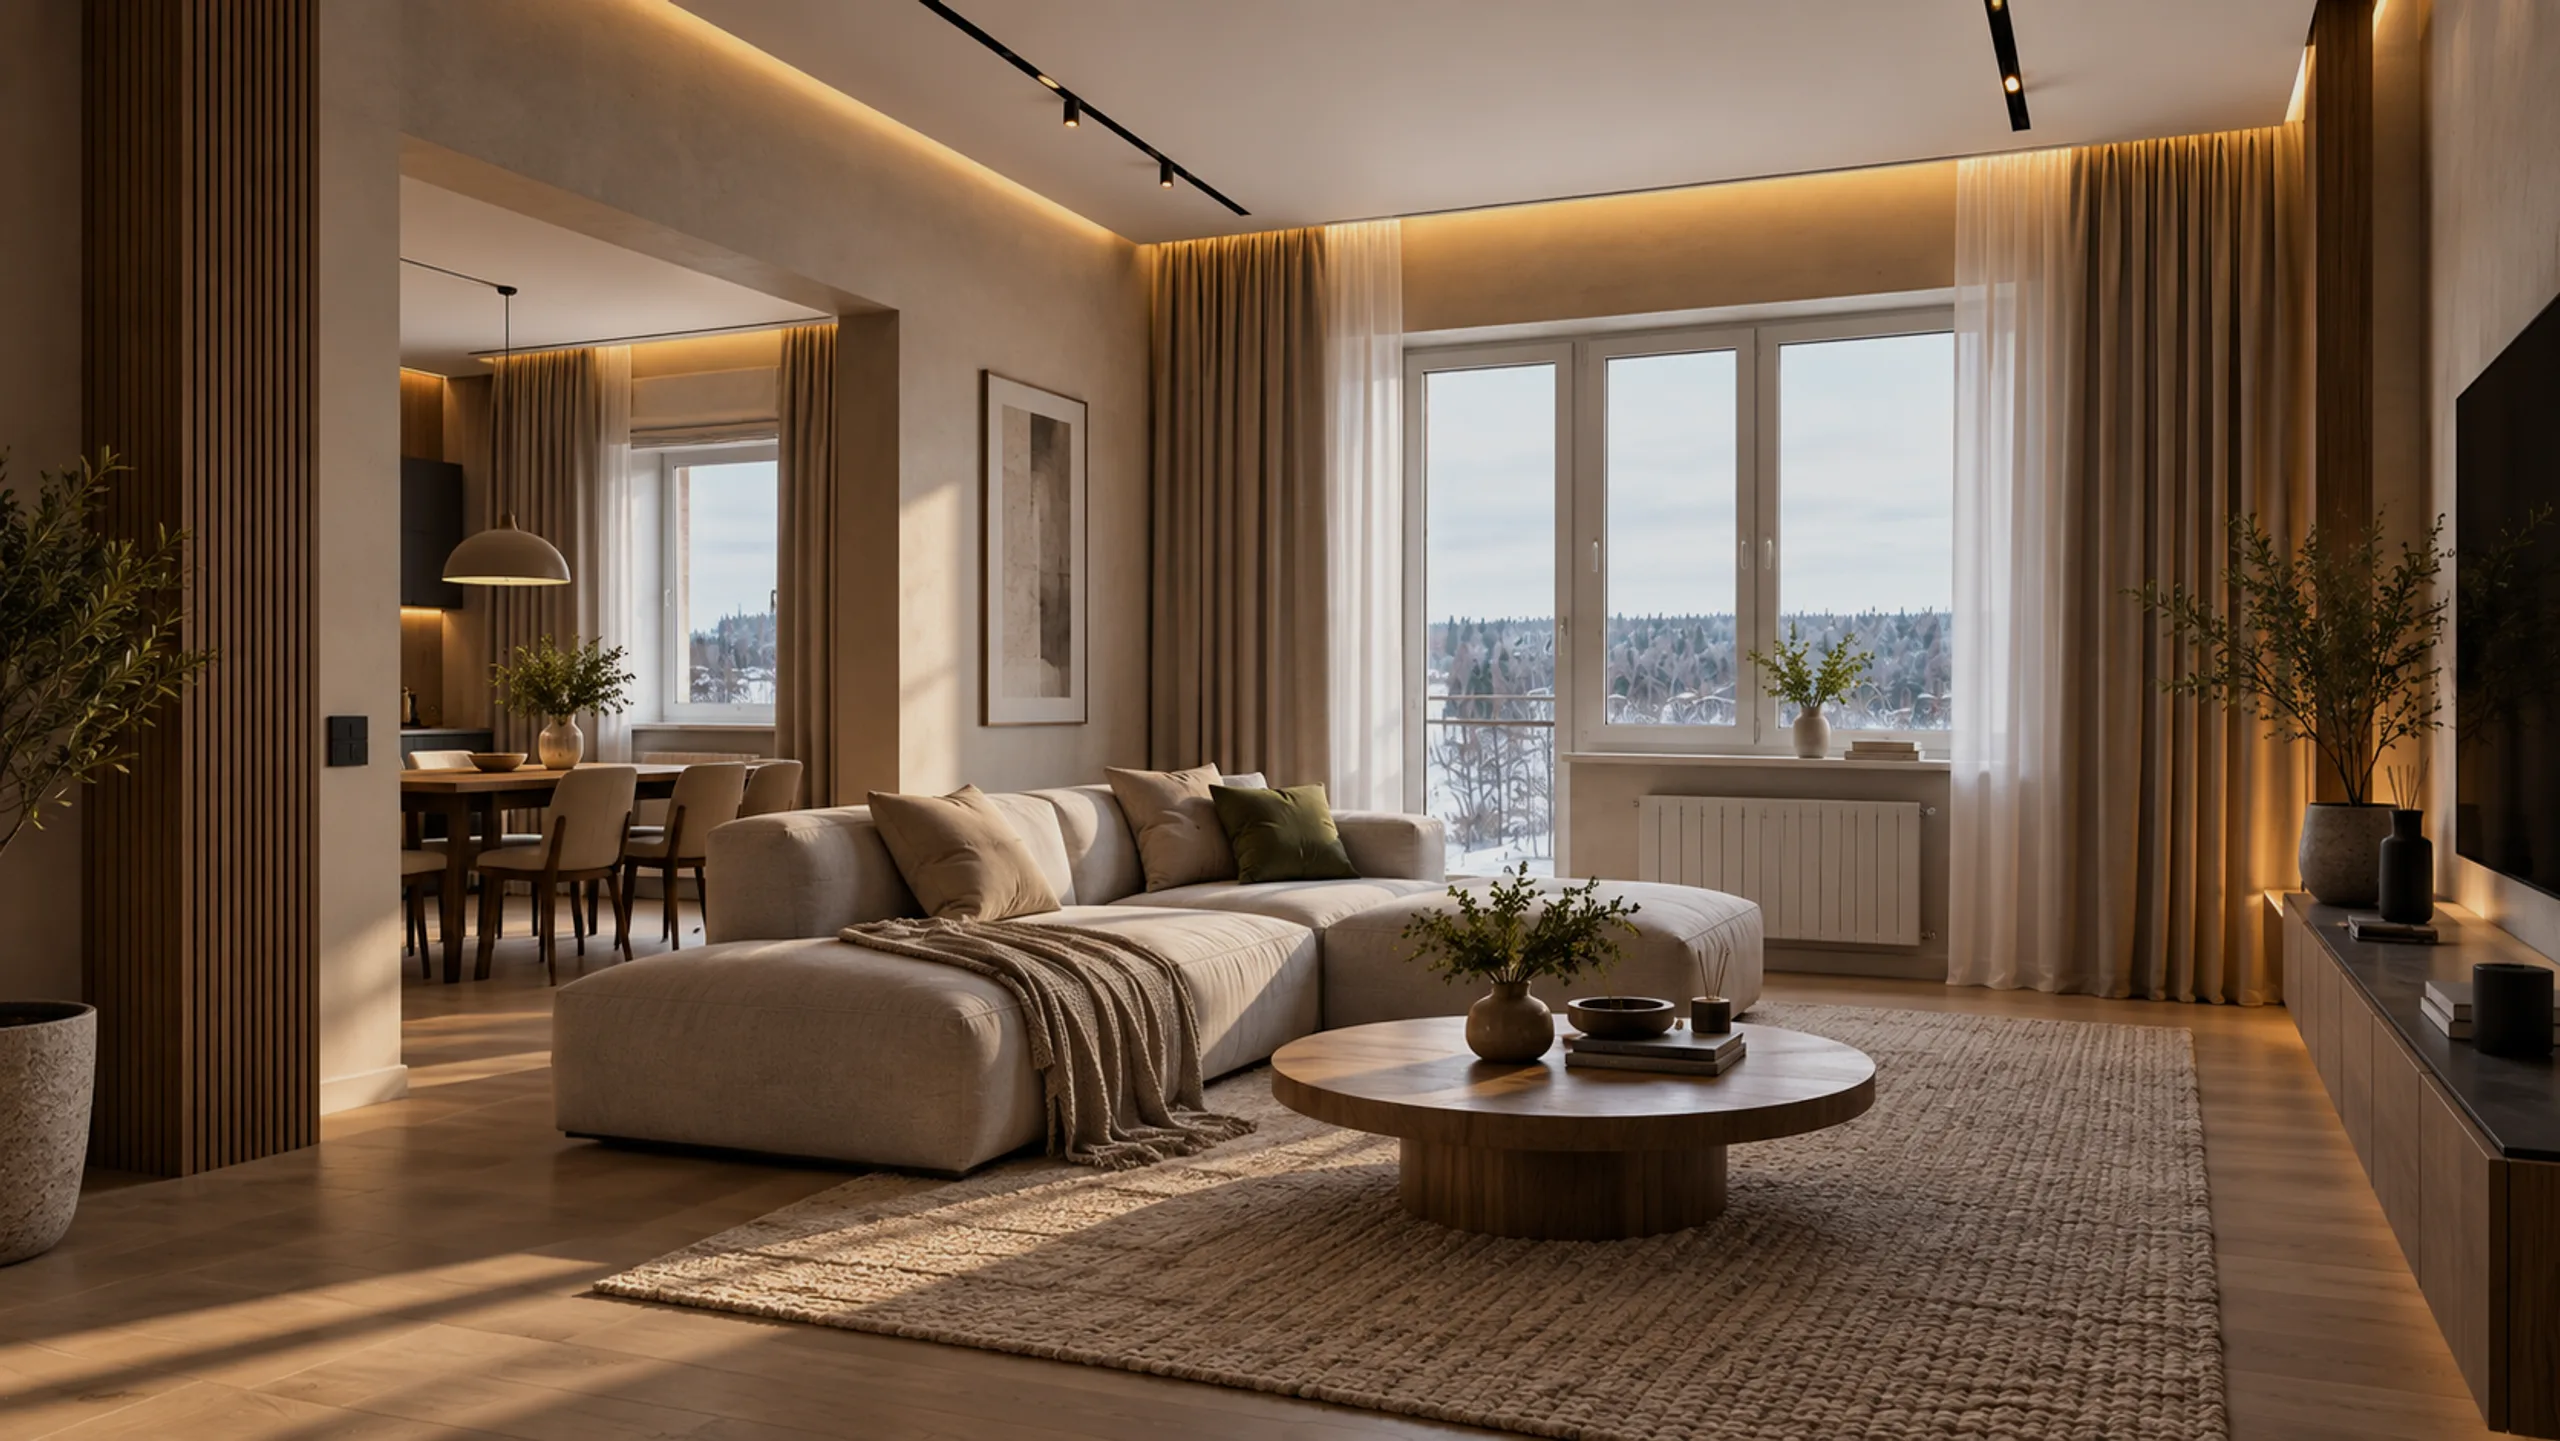
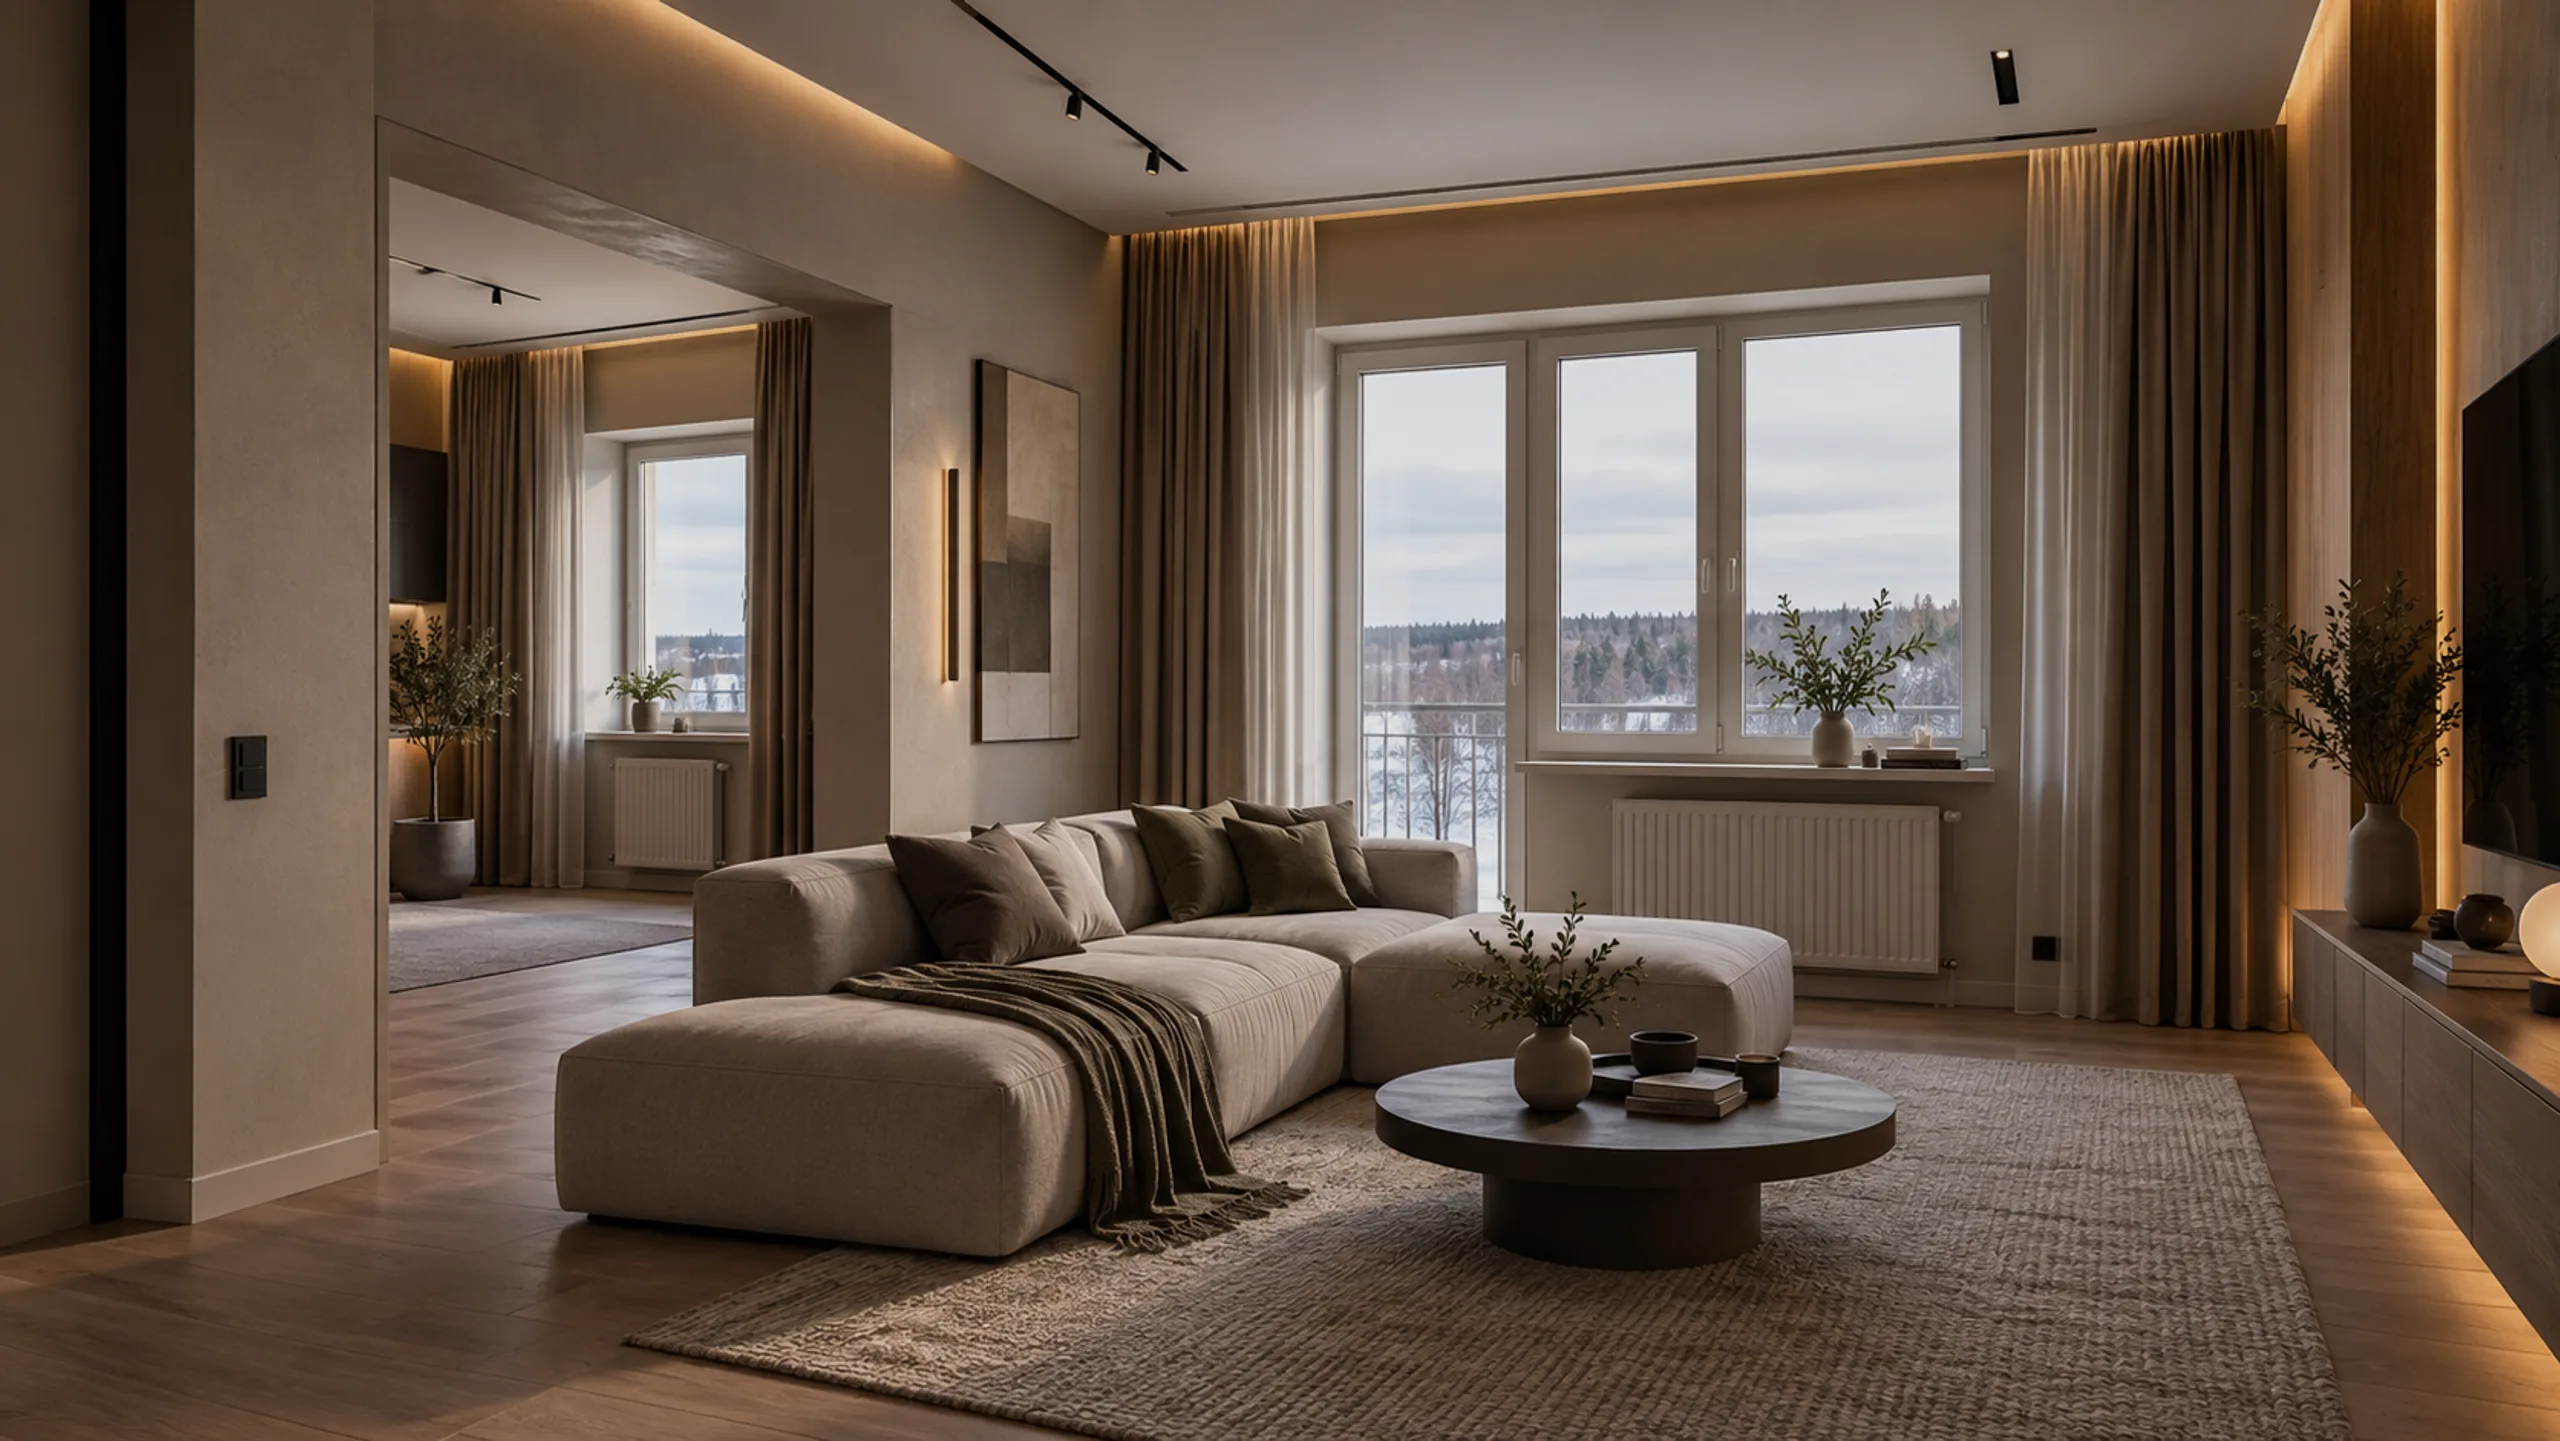
Рабочая пара «до/после» и починка ручного ввода площади
Новый кадр «после» совпадает с «до» по геометрии: проверил
полупрозрачным наложением — оконные проёмы, радиатор, дальнее окно
и линия потолка ложатся друг на друга. Разделитель теперь идёт
по одной сцене, кадры накладываются один в один без кадрирования.

Ручной ввод площади: значение зажималось по границам на каждое
нажатие, поэтому стёртое поле мгновенно становилось минимумом
и набрать «150», начав с «1», было невозможно. Границы применяются
на выходе из поля; пока человек печатает, значение свободно.
Буквы отбрасываются, Escape отменяет правку, стрелки спиннера убраны.

Проверено: 150 набирается с нуля, 5 подтягивается к 20 по Enter,
9999 ограничивается до 500, «12abc3» превращается в 123.

Claude-Session: https://claude.ai/code/session_01Uq9uYsibYoy64GkV7s2fiw

diff --git a/src/components/sections/Calculator.tsx b/src/components/sections/Calculator.tsx
@@ -53,6 +53,14 @@ export function Calculator({ embedded = false, initialObjectType = null }: Props
   const [leadOpen, setLeadOpen] = useState(false);
   const [sheetOpen, setSheetOpen] = useState(false);
   const [editingArea, setEditingArea] = useState(false);
+  /**
+   * Черновик ручного ввода площади.
+   *
+   * Пока человек печатает, значение не зажимается по границам: иначе
+   * стёртое поле сразу становится минимумом, и набрать «150», начав
+   * с «1», невозможно. Границы применяются на выходе из поля.
+   */
+  const [areaDraft, setAreaDraft] = useState<string | null>(null);
   const deltaId = useRef(0);
   const opened = useRef(false);
   const reduced = usePrefersReducedMotion();
@@ -76,6 +84,19 @@ export function Calculator({ embedded = false, initialObjectType = null }: Props
   }, []);
 
   const update = (patch: Partial<State>) => setState({ ...state, ...patch });
+
+  /** Применяем границы один раз — когда человек закончил печатать. */
+  const commitArea = () => {
+    if (!objectType) return;
+    const parsed = Number(areaDraft);
+    const next =
+      areaDraft && Number.isFinite(parsed) && parsed > 0
+        ? Math.min(objectType.area.max, Math.max(objectType.area.min, parsed))
+        : area;
+    update({ area: next });
+    setAreaDraft(null);
+    track("calculator_area_changed" as never, { area: next });
+  };
 
   const showDelta = (value: number) => {
     if (reduced || value === 0) return;
@@ -205,22 +226,34 @@ export function Calculator({ embedded = false, initialObjectType = null }: Props
             {editingArea ? (
               <input
                 className="area-control__input"
-                type="number"
+                type="text"
+                inputMode="numeric"
                 autoFocus
-                min={objectType.area.min}
-                max={objectType.area.max}
-                value={area}
-                aria-label="Площадь объекта, м²"
-                onBlur={() => setEditingArea(false)}
+                value={areaDraft ?? String(area)}
+                aria-label={`Площадь объекта в м², от ${objectType.area.min} до ${objectType.area.max}`}
+                onFocus={(event) => event.currentTarget.select()}
+                onBlur={() => {
+                  commitArea();
+                  setEditingArea(false);
+                }}
                 onKeyDown={(event) => {
-                  if (event.key === "Enter") setEditingArea(false);
+                  if (event.key === "Enter") {
+                    commitArea();
+                    setEditingArea(false);
+                  }
+                  if (event.key === "Escape") {
+                    setAreaDraft(null);
+                    setEditingArea(false);
+                  }
                 }}
                 onChange={(event) => {
-                  const next = Number(event.target.value);
-                  if (Number.isFinite(next)) {
-                    update({
-                      area: Math.min(objectType.area.max, Math.max(objectType.area.min, next)),
-                    });
+                  // Оставляем только цифры: буквы и знаки в площади не нужны
+                  const digits = event.target.value.replace(/\D/g, "").slice(0, 4);
+                  setAreaDraft(digits);
+                  const next = Number(digits);
+                  // Пересчитываем на лету, но только когда число уже осмысленное
+                  if (digits && next >= objectType.area.min && next <= objectType.area.max) {
+                    update({ area: next });
                   }
                 }}
               />
@@ -228,7 +261,10 @@ export function Calculator({ embedded = false, initialObjectType = null }: Props
               <button
                 type="button"
                 className="area-control__value"
-                onClick={() => setEditingArea(true)}
+                onClick={() => {
+                  setAreaDraft(String(area));
+                  setEditingArea(true);
+                }}
                 aria-label="Изменить площадь вручную"
               >
                 {area}

diff --git a/src/app/globals.css b/src/app/globals.css
@@ -1661,3 +1661,9 @@ button, input, textarea, select { font: inherit; color: inherit; }
   .hero { min-height: auto; }
   .hero__inner { min-height: 100svh; display: flex; flex-direction: column; justify-content: flex-end; }
 }
+
+/* Стрелки спиннера в поле площади мешают: цифру набирают руками
+   или тянут слайдером, а стрелки только сужают поле для клика. */
+.area-control__input { -moz-appearance: textfield; appearance: textfield; }
+.area-control__input::-webkit-outer-spin-button,
+.area-control__input::-webkit-inner-spin-button { -webkit-appearance: none; margin: 0; }

diff --git a/CONTENT-REPLACEMENT.md b/CONTENT-REPLACEMENT.md
@@ -90,17 +90,13 @@
 | ~~Услуга 05~~ | `public/images/services/materials.webp` | 9:10 | 900×1000 | **Получено от заказчика** |
 | ~~Услуга 06~~ | `public/images/services/other.webp` | 9:10 | 900×1000 | **Получено от заказчика** |
 | Проект 01–03 | `public/images/projects/project-0N.webp` | 4:3 | 1600×1200 | Реализованный объект, 1 главный кадр |
-| До / После | `public/images/before-after/before.webp`, `after.webp` | 16:9 | 2560×1441 | **Нужна пересъёмка пары** |
+| ~~До / После~~ | `public/images/before-after/before.webp`, `after.webp` | 16:9 | 2560×1441 | **Получено от заказчика** |
 
-**Про текущую пару «до/после».** Кадры сгенерированы независимо друг
-от друга, поэтому сцена на них не совпадает: окно слева одностворчатое,
-справа трёхстворчатое, стены разной ширины. На разделителе это видно,
-и никаким кадрированием не лечится — совмещать нечего.
-
-Как получить рабочую пару: взять кадр «до» за основу и сгенерировать
-«после» из него же (image-to-image), либо снять один и тот же объект
-с одной точки до и после работ. Габариты файлов должны совпадать —
-тогда наложение идёт один в один.
+**Требование к паре «до/после».** Кадры должны быть одного размера
+и с совпадающей геометрией: оконные проёмы, линия потолка и стены
+обязаны ложиться друг на друга. Текущая пара этому отвечает —
+проверено полупрозрачным наложением. Если понадобится заменить,
+кадр «после» нужно делать из кадра «до», а не отдельным запросом.
 | Этапы 01–05 | `public/images/process/step-0N.webp` | 3:5 | 720×1200 | Процесс: подготовка, расчёт, работы, результат |
 | Материалы | `public/images/materials/0N.webp` | 3:4 | 900×1200 | Камень, дерево, металл, плитка |
 | Финальный экран | `public/images/final-cta.webp` | 16:9 | 2400×1350 | Атмосферный интерьер или фасад |
